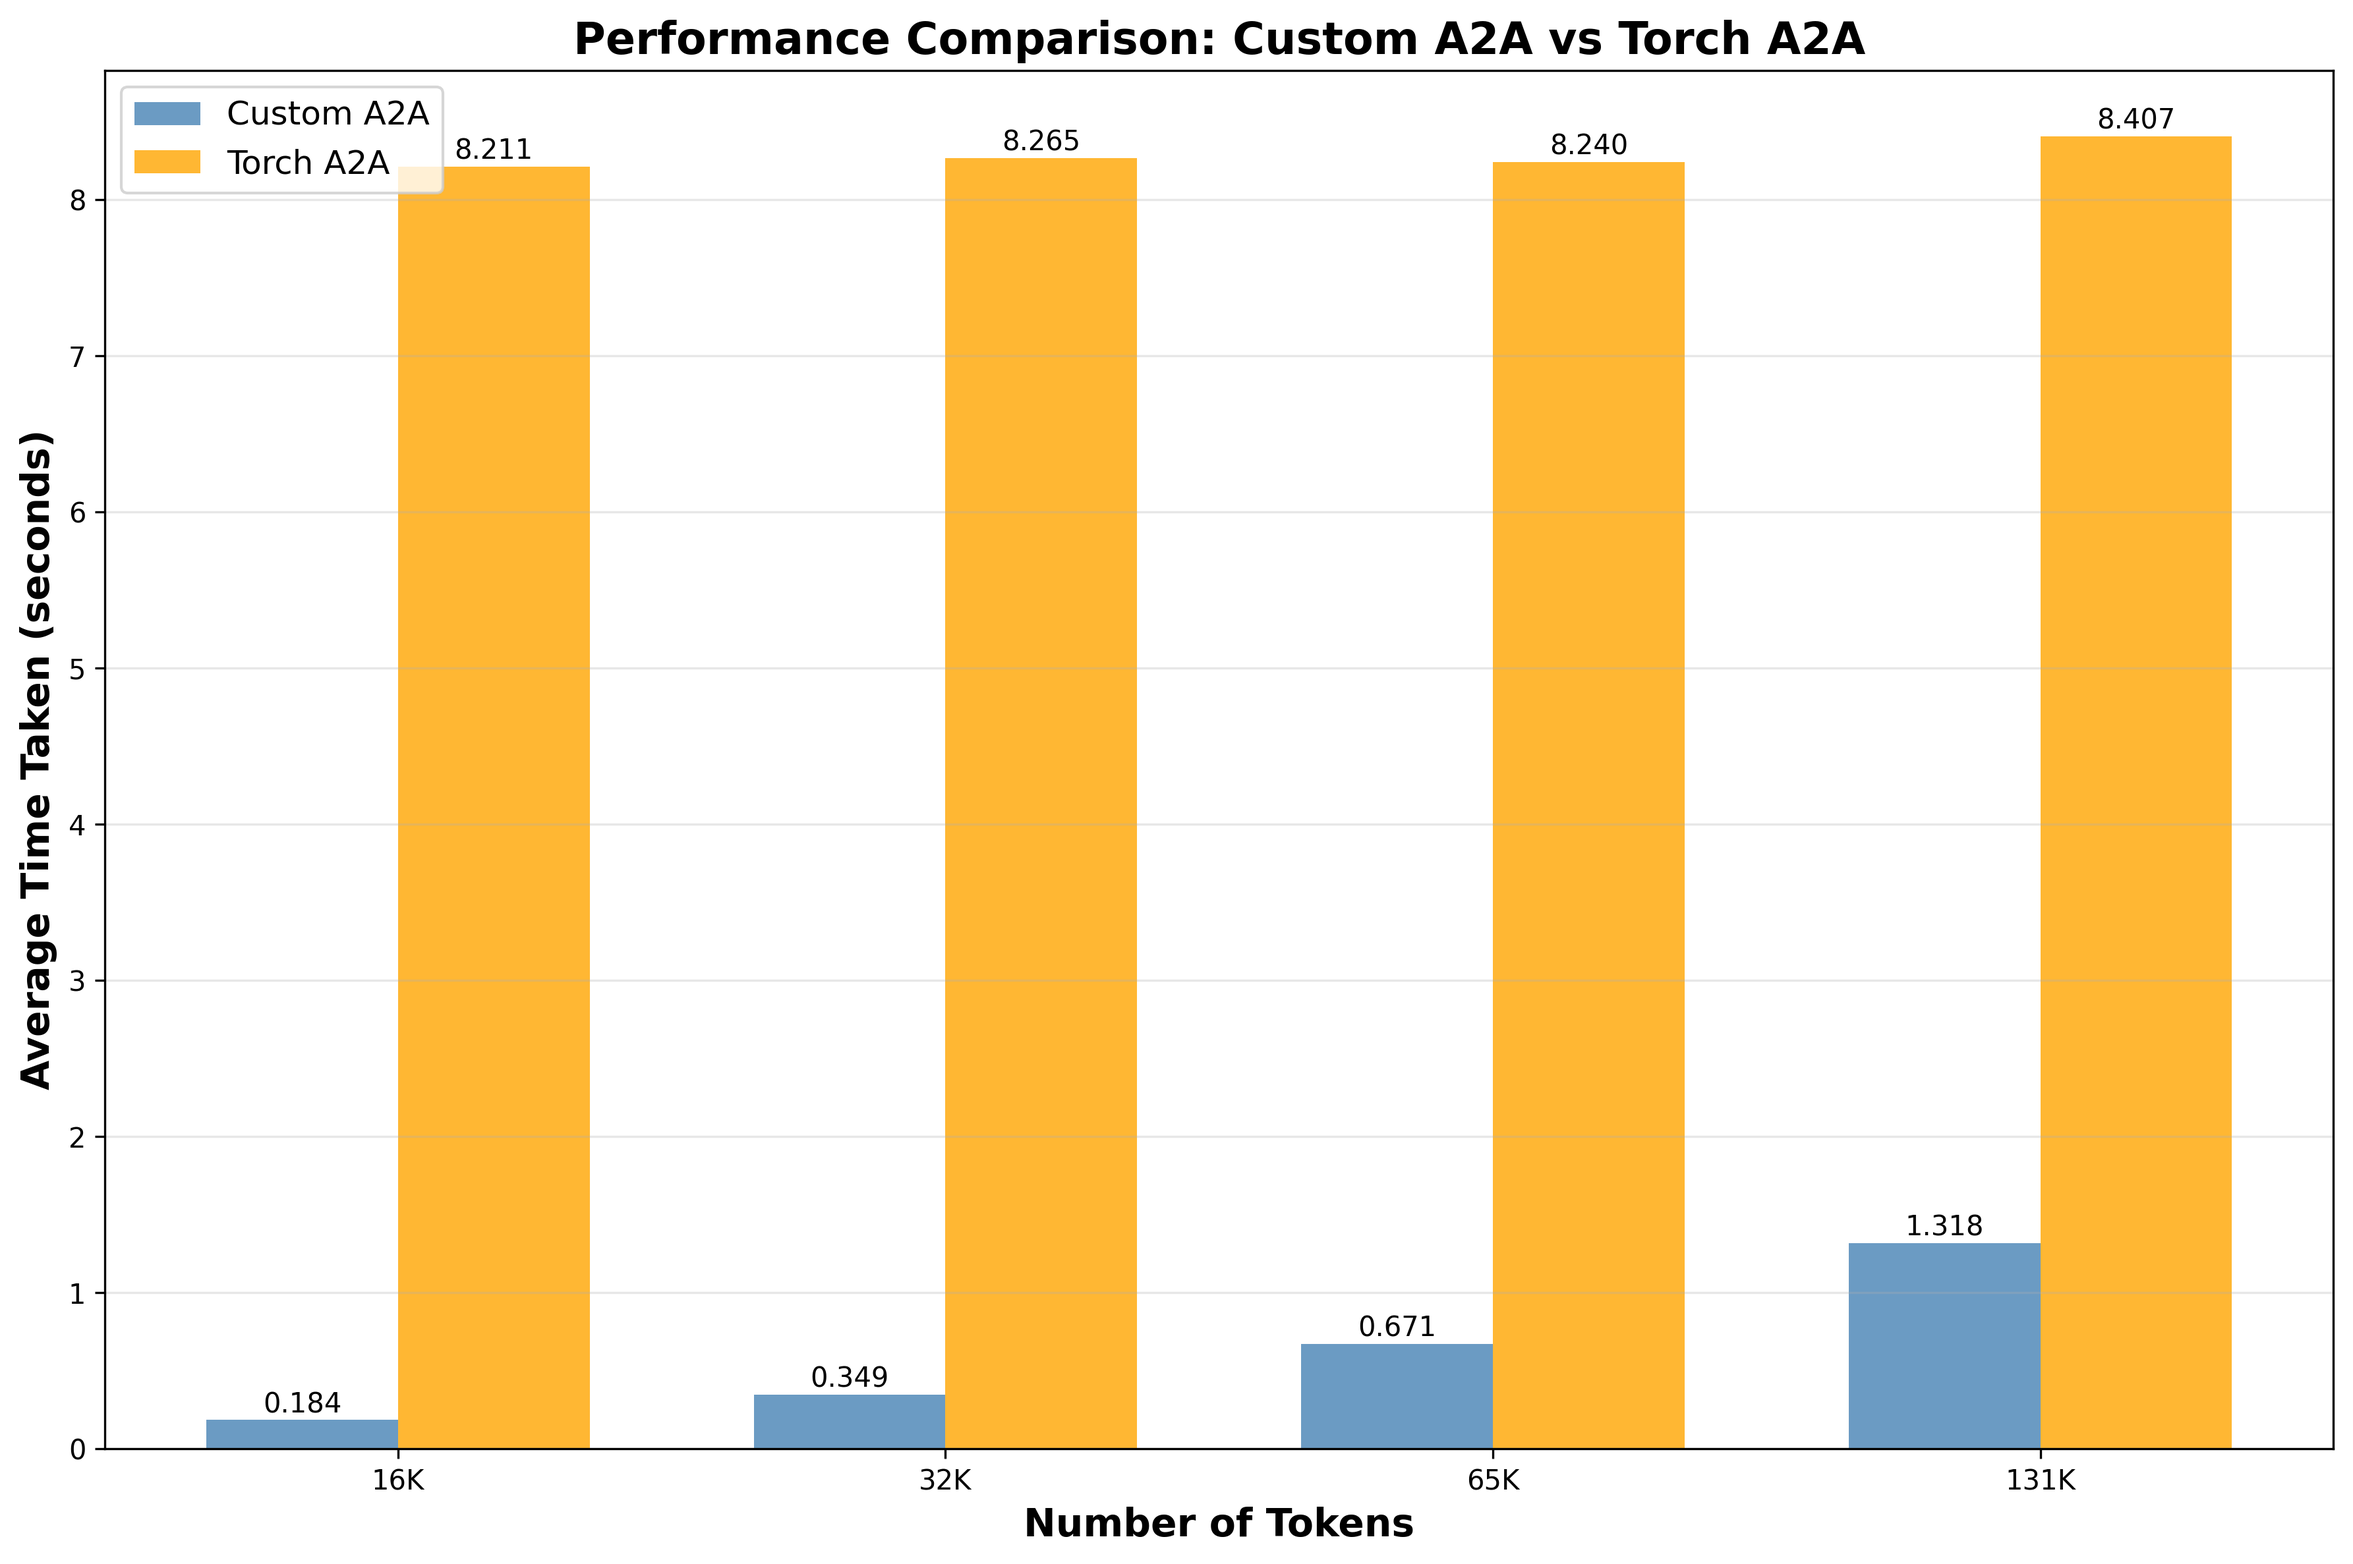
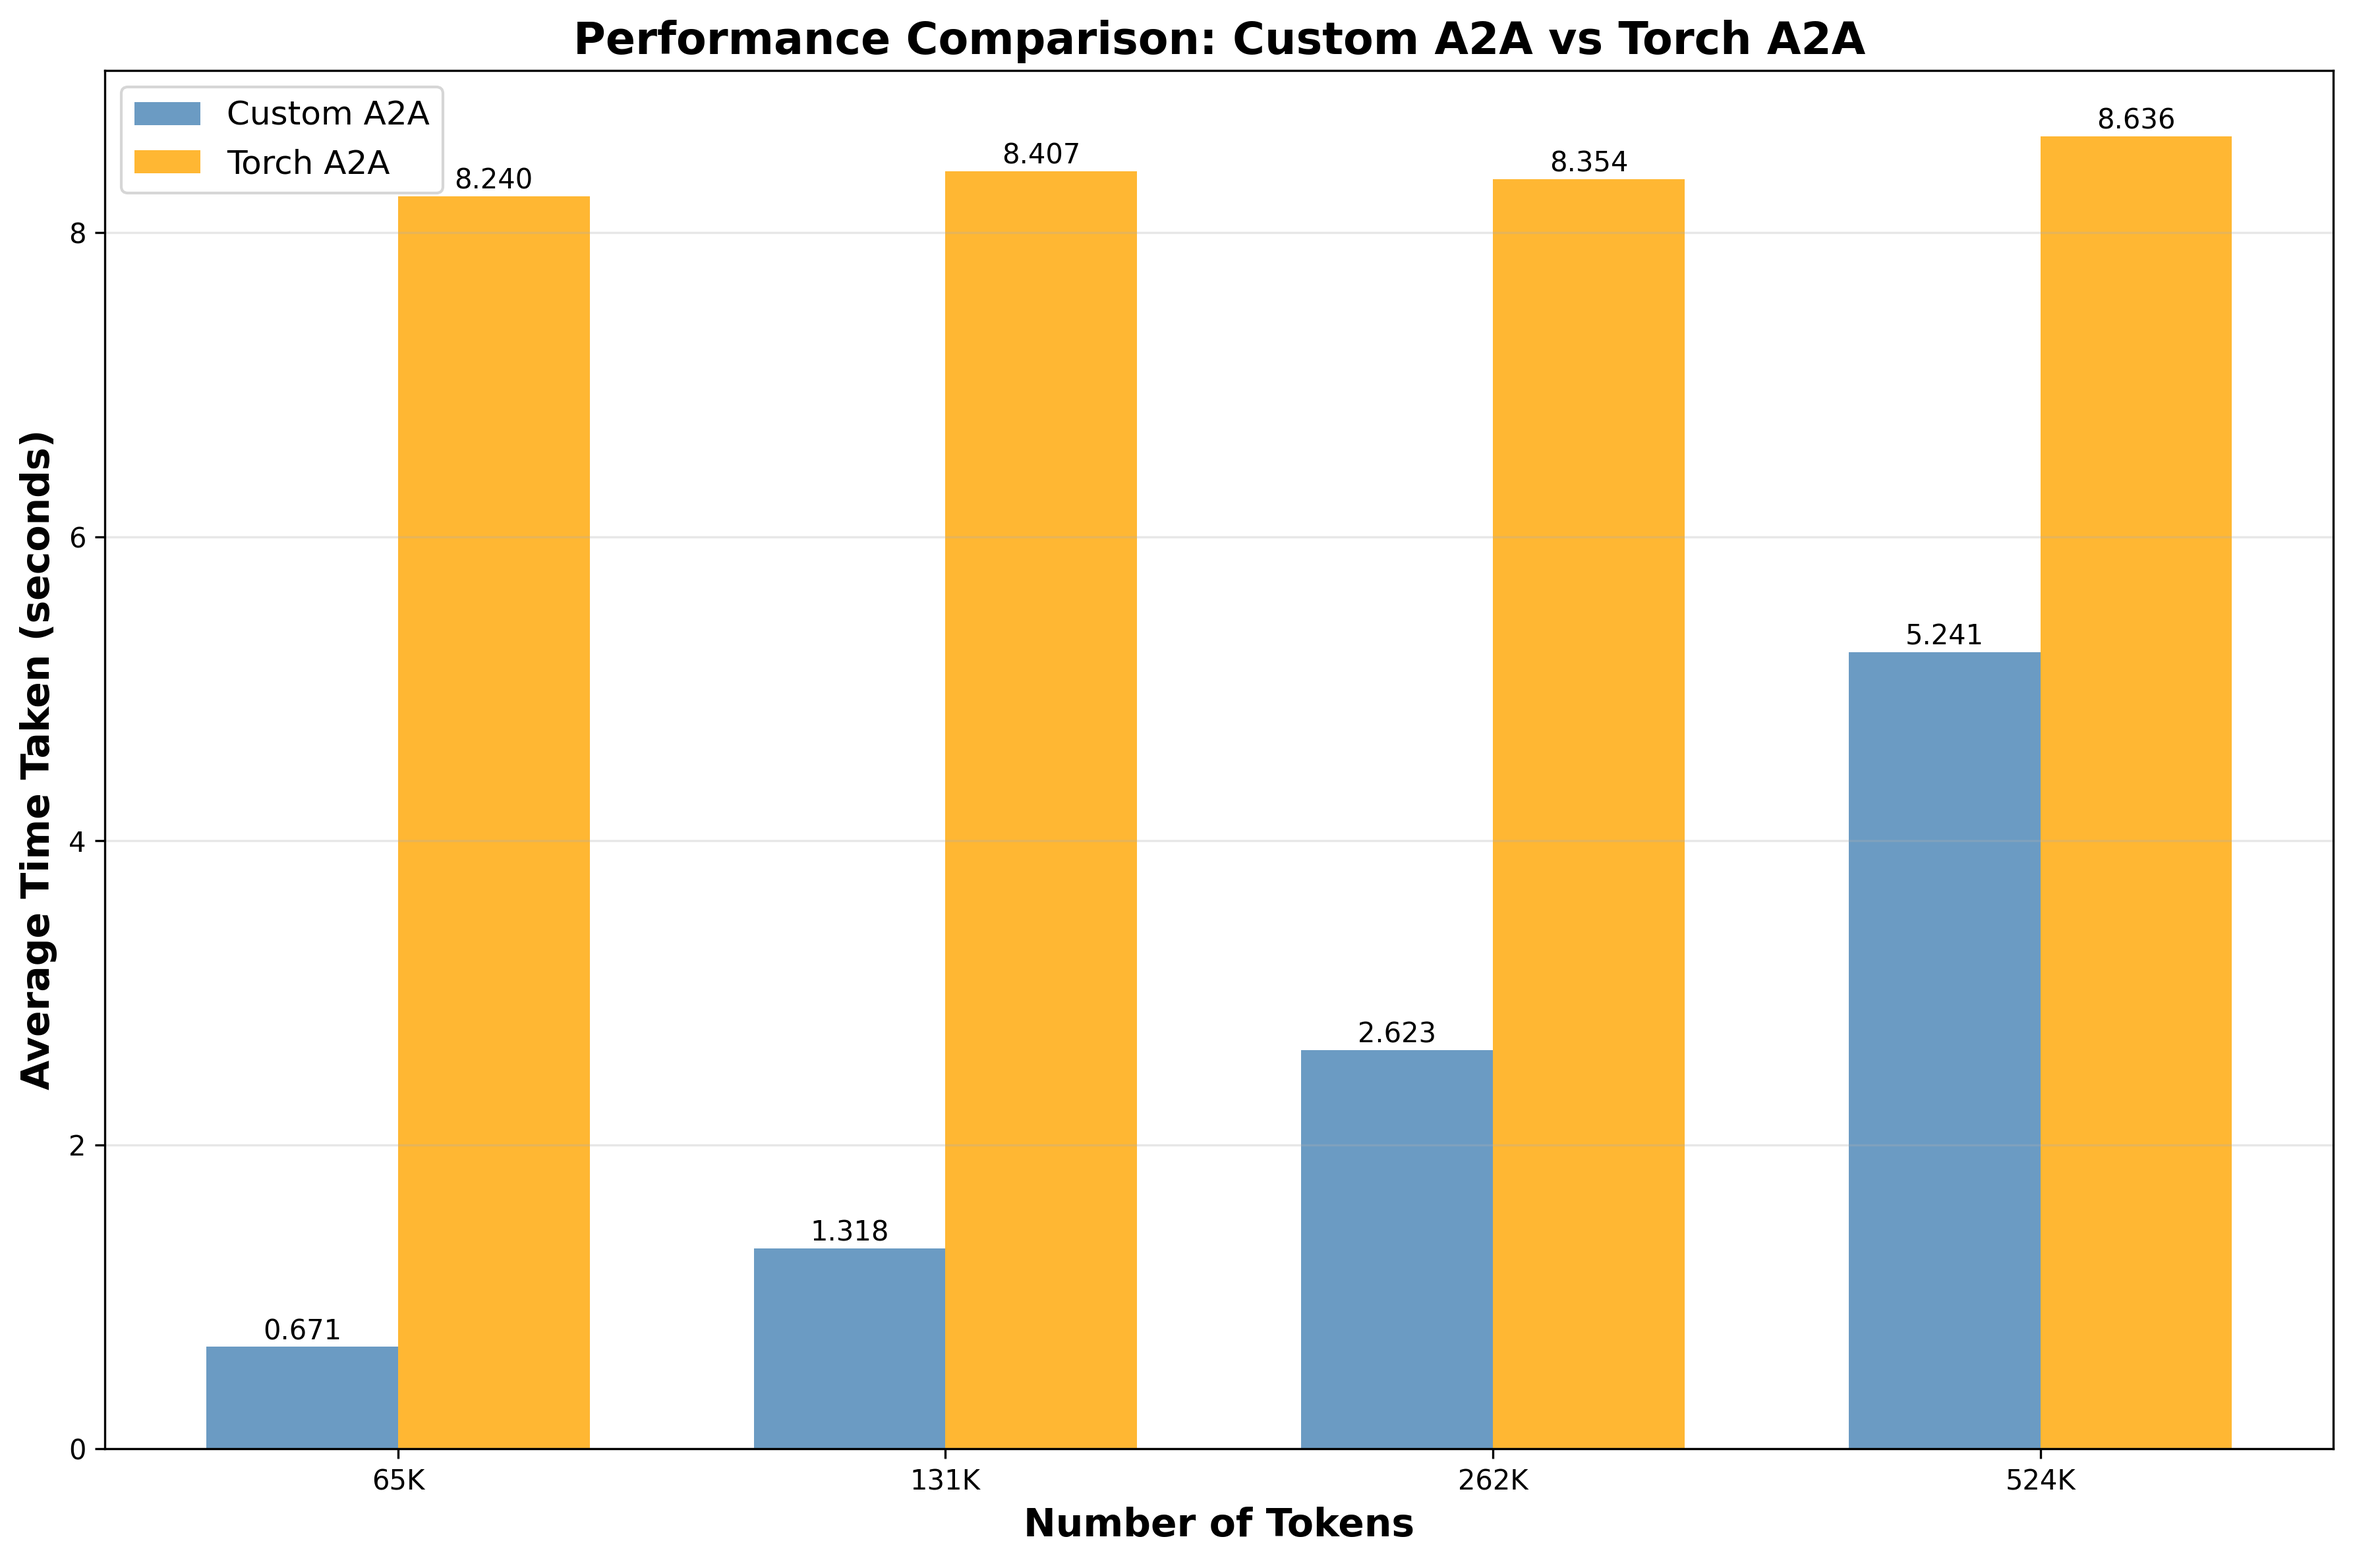
add new results

diff --git a/benchmark.py b/benchmark.py
@@ -36,7 +36,7 @@ def callee(
         device_id=torch.device(f"cuda:{device_id}")
     )
 
-    heap_size = (2**30)*5 ## 1 GiB symmetric heap.
+    heap_size = (2**30)*18 ## 1 GiB symmetric heap.
     shmem = iris.iris(heap_size)
 
     tokens, meta = gen_tensor(
@@ -84,8 +84,8 @@ def callee(
 
 if __name__ == "__main__":
     ## Input parameters. ##
-    world_size, batch, seq, hidden_dim = 8, 8, 2048, 1024
+    world_size, batch, seq, hidden_dim = 8, 8, 65536, 1024
     num_experts = world_size * 2
-    run_custom_a2a: bool = False 
+    run_custom_a2a: bool = True 
     ## A custom test case for convenience. ##
     mp.spawn(callee, args=(batch, seq, hidden_dim, num_experts, world_size, run_custom_a2a), nprocs=world_size, join=True)
